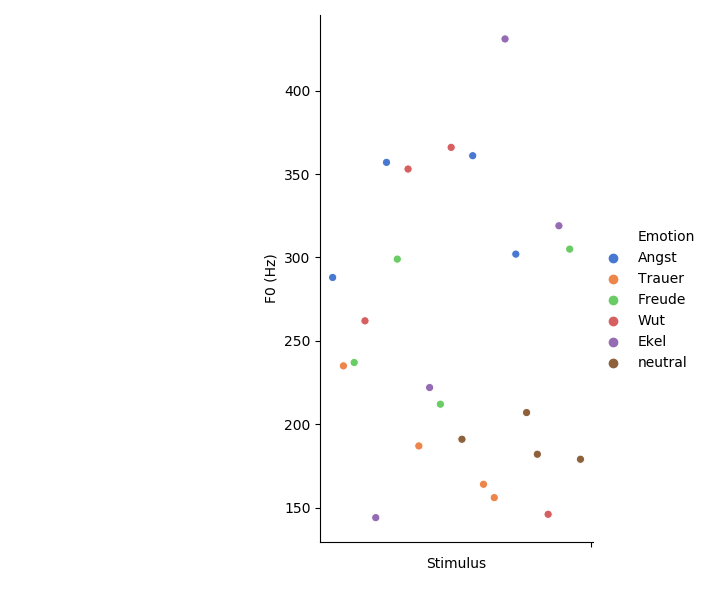
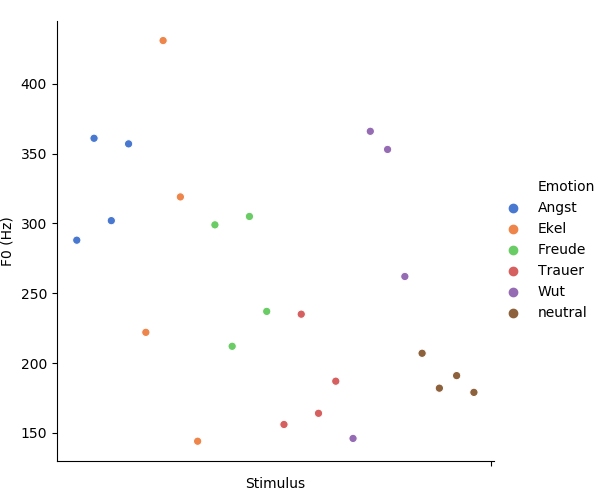
created interrater agreement for each experiment

diff --git a/Plotter.py b/Plotter.py
@@ -269,7 +269,6 @@ def create_heatmap(path):
             plt.show()
 
 
-
 def analyze_pitch():
     f0_aggregation = pd.read_csv('f0_aggregation.csv')
     f0_m = f0_aggregation.loc[f0_aggregation['Geschlecht']=='männlich']
@@ -299,6 +298,41 @@ def analyze_pitch():
 
     plt.clf()
 
+    g = sns.relplot(x="sound", y="f0_mean", hue="Emotion", col="Geschlecht", data=f0_aggregation)
+    g.set_ylabels('F0 (Hz)')
+    g.set_xlabels('Stimulus')
+    emotion_list_long = ['Angst', '', '', '', 'Ekel', '', '', '', 'Freude', '', '', '', 'Trauer', '', '', '', 'Wut', '', '', '',
+              'neutral',  '', '', '']
+
+    emotion_list_short = ['Angst', 'Ekel', 'Freude',  'Trauer', 'Wut', 'neutral']
+
+    for ax in g.axes.flat:#
+        g.set(xticks=np.arange(2, 25, 4))
+        labels = ax.get_xticklabels()  # get x labels
+        #labels = emotion_list
+        for i, l in enumerate(labels):
+            labels[i] = emotion_list_short[i]
+           #if not (i % 4 == 0): labels[i] = ''
+        ax.set_xticklabels(labels)
+        
+
+
+
+    #plt.xticks(ticks=f0_aggregation['Emotion'].unique(), labels=f0_aggregation['Emotion'].unique())
+    #g.set_xticklabels(labels=['Angst','', '', '',  'Freude','', '', '', 'Ekel','', '', '', 'Wut','', '', '', 'Trauer','', '', '', 'neutral'], step=400)
+    #plt.xticks(f0_aggregation['Emotion'].unique())
+
+    g.fig.suptitle('F0-Meanwerte der Originalsprachaufnahmen ')
+    plt.legend(loc='center right', bbox_to_anchor=(1.25, 0.5), ncol=1)
+    g.fig.tight_layout()
+
+    plt.subplots_adjust(top=0.9)
+    # plt.title('F0-Durchschnittswerte der Originalsprachaufnahmen')
+    plt.savefig('plots/f0/f0_mean_two_in_one_sorted.png')
+
+    plt.clf()
+
+
     g = sns.relplot(x="sound", y="f0_median", hue="Emotion", col="Geschlecht", data=f0_aggregation)
     g.set_ylabels('F0 (Hz)')
     g.set_xlabels('Stimulus')
@@ -309,12 +343,14 @@ def analyze_pitch():
     g.fig.tight_layout()
     plt.subplots_adjust(top=0.9)
     # plt.title('F0-Durchschnittswerte der Originalsprachaufnahmen')
-    plt.savefig('plots/f0/f0_median_two_in_one.png')
+    plt.savefig('plots/f0/f0_median_two_in_one_sorted.png')
 
     plt.clf()
 
-    sns.relplot(x="sound", y="f0_mean", hue="Emotion", palette="muted",
-                height=6, data=f0_m)
+
+    f0_m = f0_m.sort_values(by='Emotion')
+    f0_f = f0_f.sort_values(by='Emotion')
+    sns.relplot(x="sound", y="f0_mean", hue="Emotion", palette="muted", data=f0_m)
     plt.ylabel('F0 (Hz)')
     plt.xlabel ('Stimulus')
     plt.xticks('')
@@ -322,8 +358,7 @@ def analyze_pitch():
 
     plt.clf()
 
-    sns.relplot(x="sound", y="f0_mean", hue="Emotion", palette="muted",
-                height=6, data=f0_f)
+    sns.relplot(x="sound", y="f0_mean", hue="Emotion", palette="muted", data=f0_f)
     plt.ylabel('F0 (Hz)')
     plt.xlabel('Stimulus')
     plt.xticks('')

diff --git a/Annotator_performance.py b/Annotator_performance.py
@@ -39,7 +39,7 @@ def compute_interrater_agreement(folder_path):
 
         f_path = folder_path + f
         df = pd.read_csv(f_path)
-        df = df[~df[url].str.contains('applause')]
+        df = df[df[url].str.contains('applause')==False]
         experiment_name = 'am' if df['experiment'].str.contains('(AM)').any() else 'de'
 
         #create a dataframe for interrater agreement
@@ -48,7 +48,7 @@ def compute_interrater_agreement(folder_path):
         #fill the stimulus aggregation dataframe with unique audiofiles only once (for the first experiment)
         if first:
             df_aggregated[url] = df[url].dropna().unique()
-            df_aggregated = df_aggregated[~df_aggregated[url].str.contains('applause')]
+            df_aggregated = df_aggregated[df_aggregated[url].str.contains('applause')==False]
             first=False
 
         df_aggregated = answer_mode_per_task(df_aggregated, df, experiment_name)
@@ -57,14 +57,13 @@ def compute_interrater_agreement(folder_path):
         for rater in df[sessionid].unique():  # iterate over all raters
             # get answers of that rater
             rater_annotations = df.loc[df[sessionid] == rater, [url, inputvalue]]
-            rater_annotations = rater_annotations[url].dropna()
+            rater_annotations[url].dropna()
             # if there are any duplicates, remove all except the first one
-            rater_annotations = rater_annotations.drop_duplicates(subset=url, keep="first")
-
+            rater_annotations = rater_annotations.drop_duplicates(url,keep='first')
 
 
             # get the average answers for the files this rater has annotated
-            average_annotations = df_aggregated.loc[df_aggregated[url].isin(rater_annotations[url])]
+            average_annotations = df_aggregated.loc[df_aggregated[url].isin(rater_annotations[url])].dropna()
 
 
             # sort both DataFrames by filename to make sure correlation is computed for the right pairs
